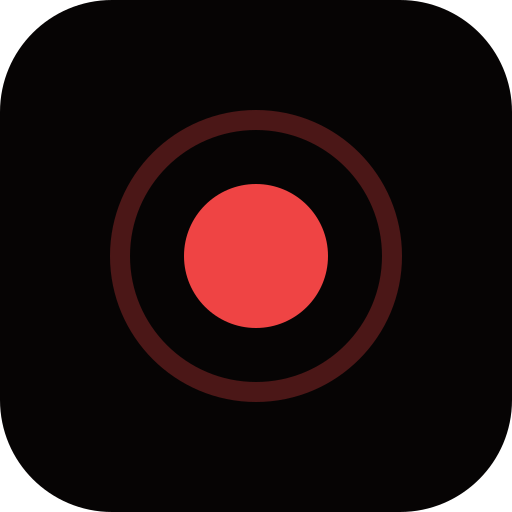
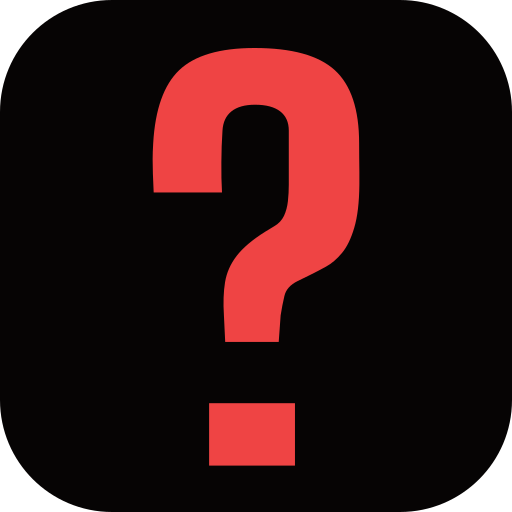
feat(brand): the question mark replaces the live dot
The old mark was pixel-for-pixel a record button, and it covered 8.2% of its
tile — measured in a tab strip, it recedes rather than reads.

The new one is the Big Shoulders glyph for "?", lifted from the font itself
rather than drawn by eye: bigshoulders700.ttf, glyph 568, two contours
converted from TrueType quadratics to SVG paths and baked in as outlines, so
the icon needs no font at runtime. That is the same letterform the score band
and the verdict already wear. Reading the real outline also caught something
no amount of sketching would have: the dot is a RECTANGLE, which is the
industrial character of the face — a hand-drawn draft used a circle and was
subtly wrong in a way that is hard to name and easy to feel.

Why a question mark: the domain is not a question, it is a conditional with
the second half missing. "If you died today…" has no main clause and the
reader supplies it. The mark is the punctuation the name withholds — a reason
that comes from the name rather than the subject, so nothing else can borrow
it.

Why all red: gold on this site arrives once, late, on ground the red has
drained out of (verdict-screen.tsx:39). A favicon is the earliest thing a
stranger sees, so gold there spends the arrival before the Law has spoken —
METHOD.md:119. Gold variants were drawn and rejected on that basis, including
a gold cross, which additionally collides with why-the-cross's emblem and with
PROMPTS.md's own reject list.
[…]

Changed region(s): [[0.1875, 0.0938, 0.8125, 0.9375]]

diff --git a/docs/graphics/PROMPTS.md b/docs/graphics/PROMPTS.md
@@ -395,3 +395,53 @@ Style: photographic, high contrast, sharply focused, not illustration, not a
 ```
 
 **▲ COPY TO HERE ▲**
+
+---
+
+## 14 · A pergunta — the site mark
+
+**Ships as:** `src/app/icon.svg`, and the four rasters generated from it —
+`src/app/apple-icon.png` (180), `src/app/favicon.ico` (16/32/48), 
+`public/icon-192.png`, `public/icon-512.png`.
+
+**No prompt.** This one is in the file because the rule at the top says every
+asset records how it was made, and "how" here was not a prompt — it was a font
+and a parser. Recorded so the next person can regenerate it rather than
+redraw it by eye.
+
+### How to regenerate
+
+The mark is the Big Shoulders glyph for `?`, converted from TrueType
+quadratics to SVG paths and baked in as outlines, so the icon needs no font at
+runtime. Source: `bigshoulders700.ttf`, glyph id **568**, two contours — the
+body and a **rectangular** dot (not a circle; that is the face's character and
+the thing a hand-drawn version gets wrong).
+
+Two departures from the raw glyph, and only two:
+
+- The dot is nudged down, opening the gap from **5 to 7.2 units** in the 64
+  viewBox. At 16px the font's own spacing lets body and dot merge into a blob.
+- Nothing else. A draft grew the dot 18% "so it survives 16px"; measured, the
+  font's dot already renders 2.68 × 1.95px there, and the enlargement pushed
+  its height to a fractional 2.30px — the same half-lit-rows problem that rules
+  out thin strokes elsewhere in this file.
+
+The rasters are all `rsvg-convert` from `icon.svg`, so they cannot drift from
+it. The `.ico` is PNG-in-ICO at 16/32/48.
+
+### Why it is red, and why that is not an omission
+
+Gold on this site arrives once, late, on ground the red has drained out of
+(`verdict-screen.tsx`). A favicon is the earliest thing a stranger sees, so
+gold there spends the arrival before the Law has said anything — see
+`METHOD.md:119`, "Grace is never offered before the Law has done its work."
+Several gold variants were drawn and rejected on that basis, including a gold
+cross, which additionally collides with `why-the-cross`'s emblem and with this
+file's own reject list.
+
+### Why a question mark
+
+The domain is not a question. It is a conditional with the second half
+missing: *if you died today…* has no main clause, and the reader supplies it.
+The mark is the punctuation the name withholds — which is a reason no other
+site can borrow, because it comes from the name rather than from the subject.
